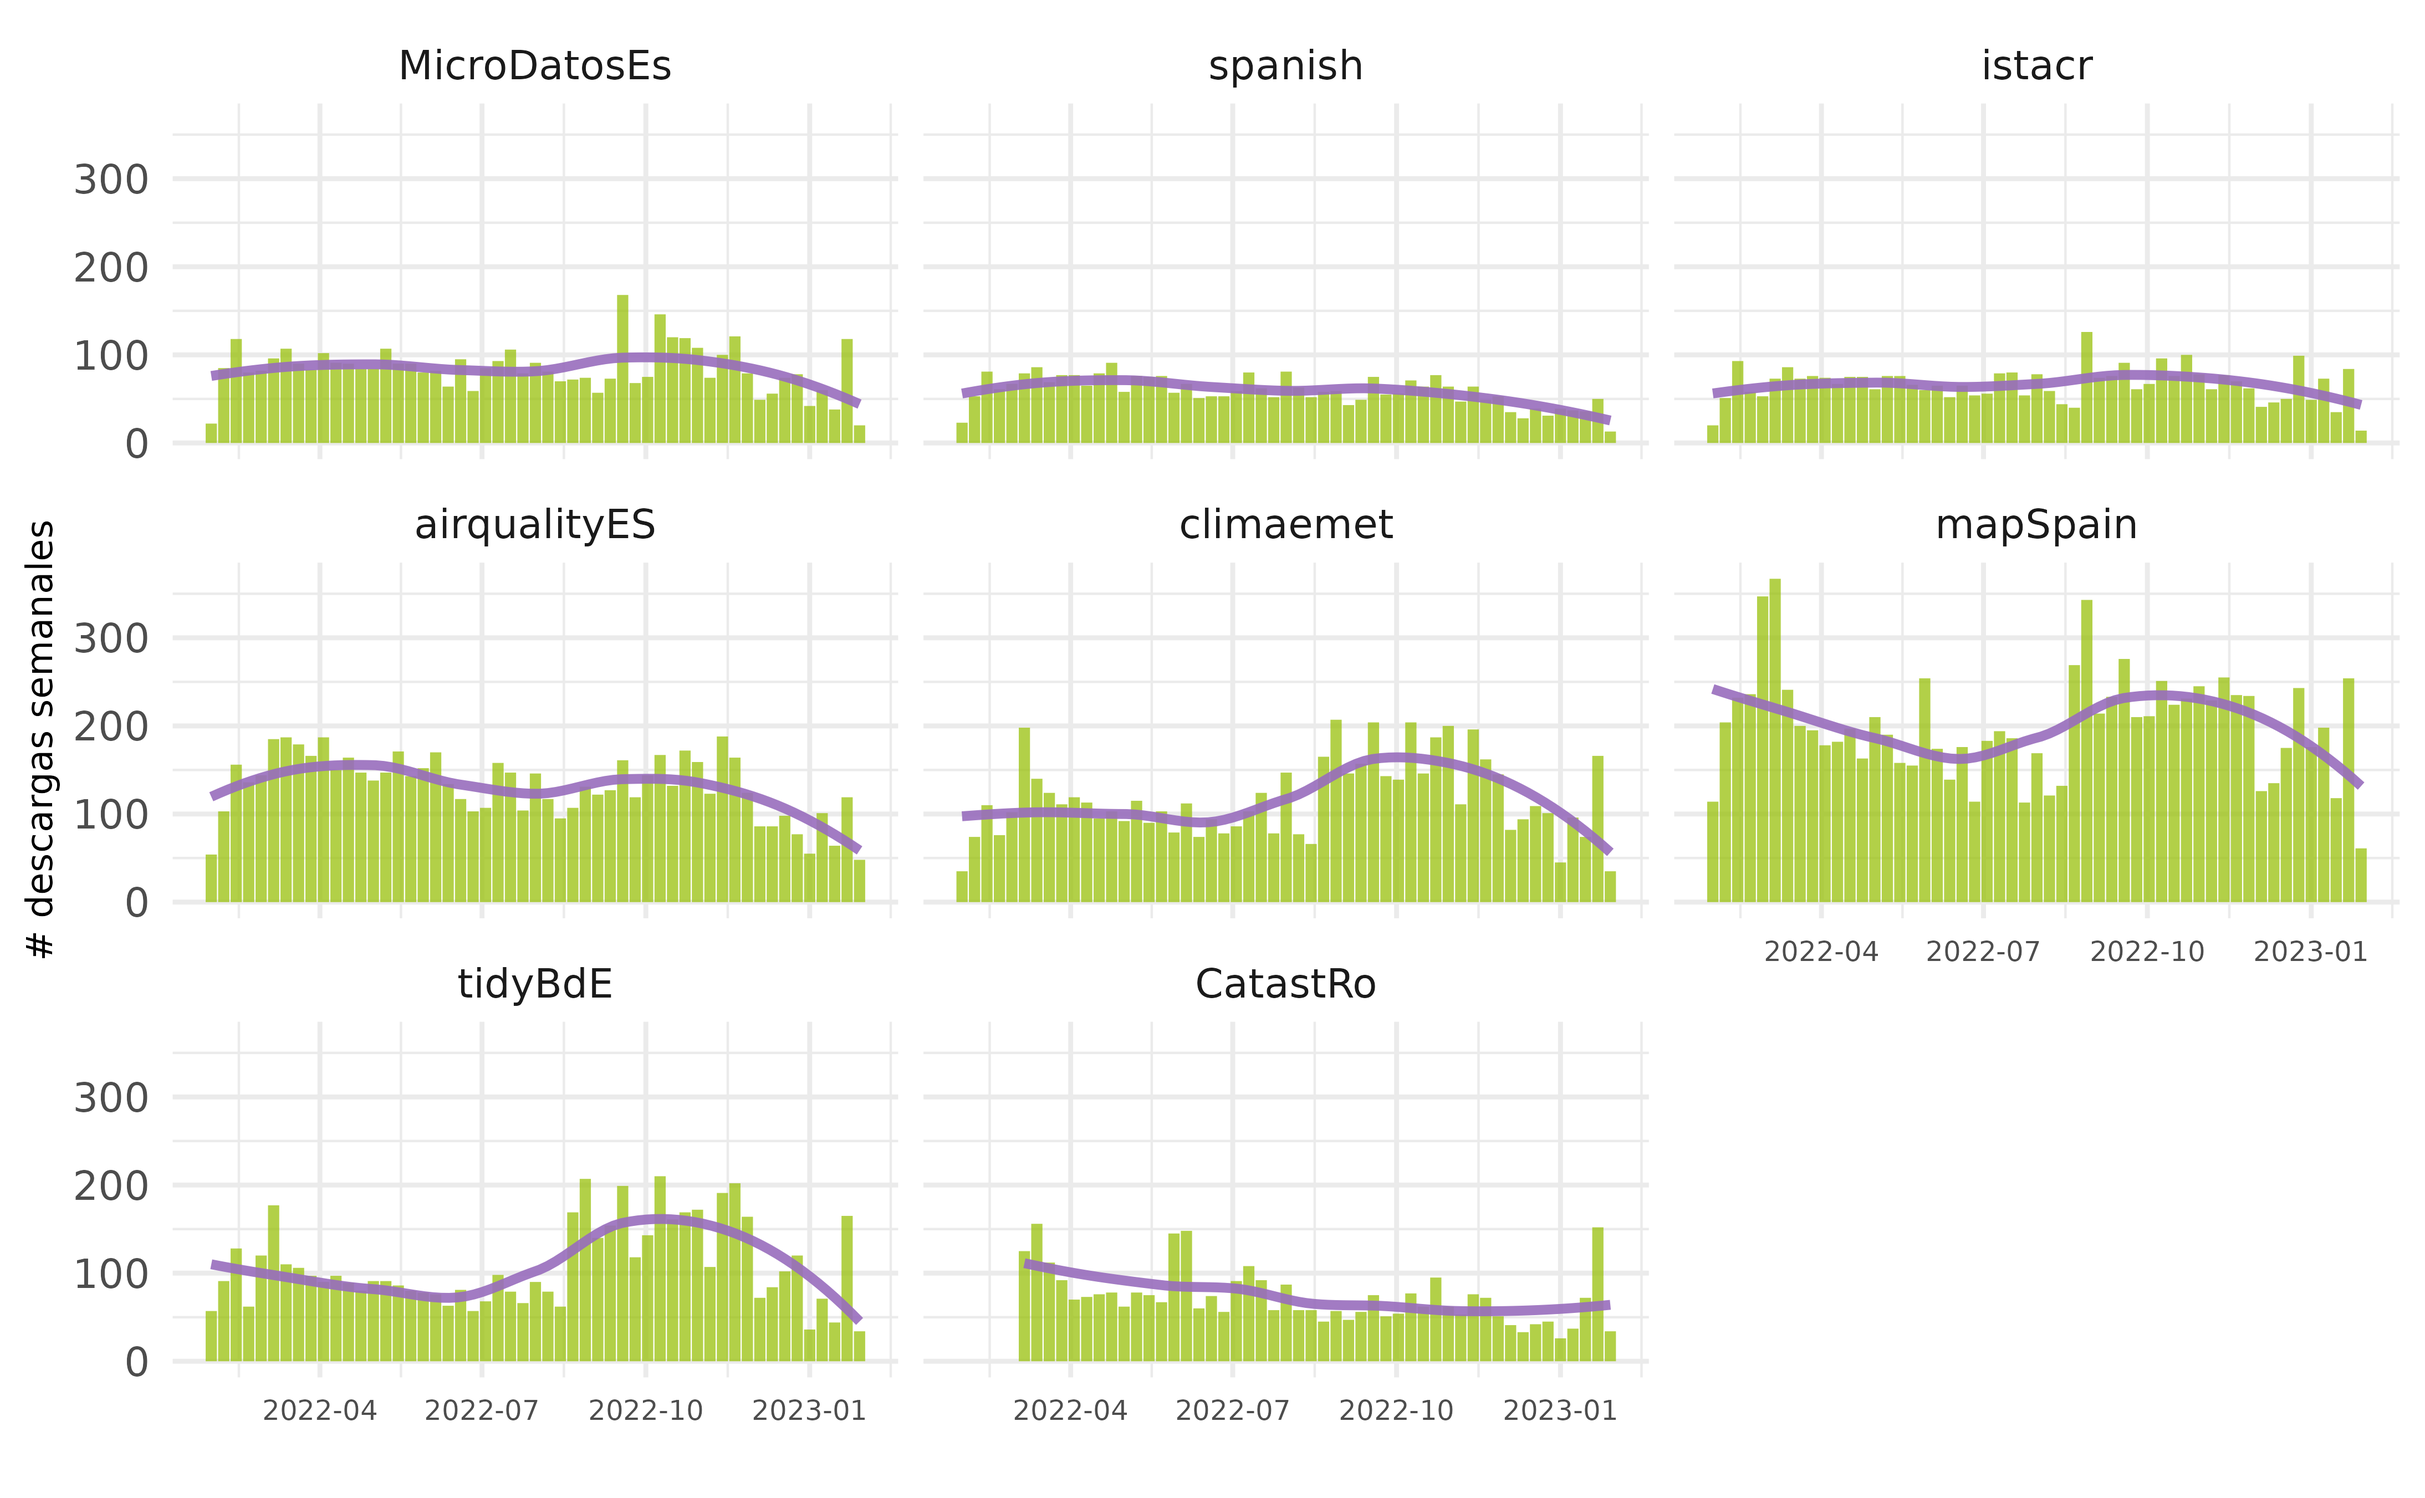
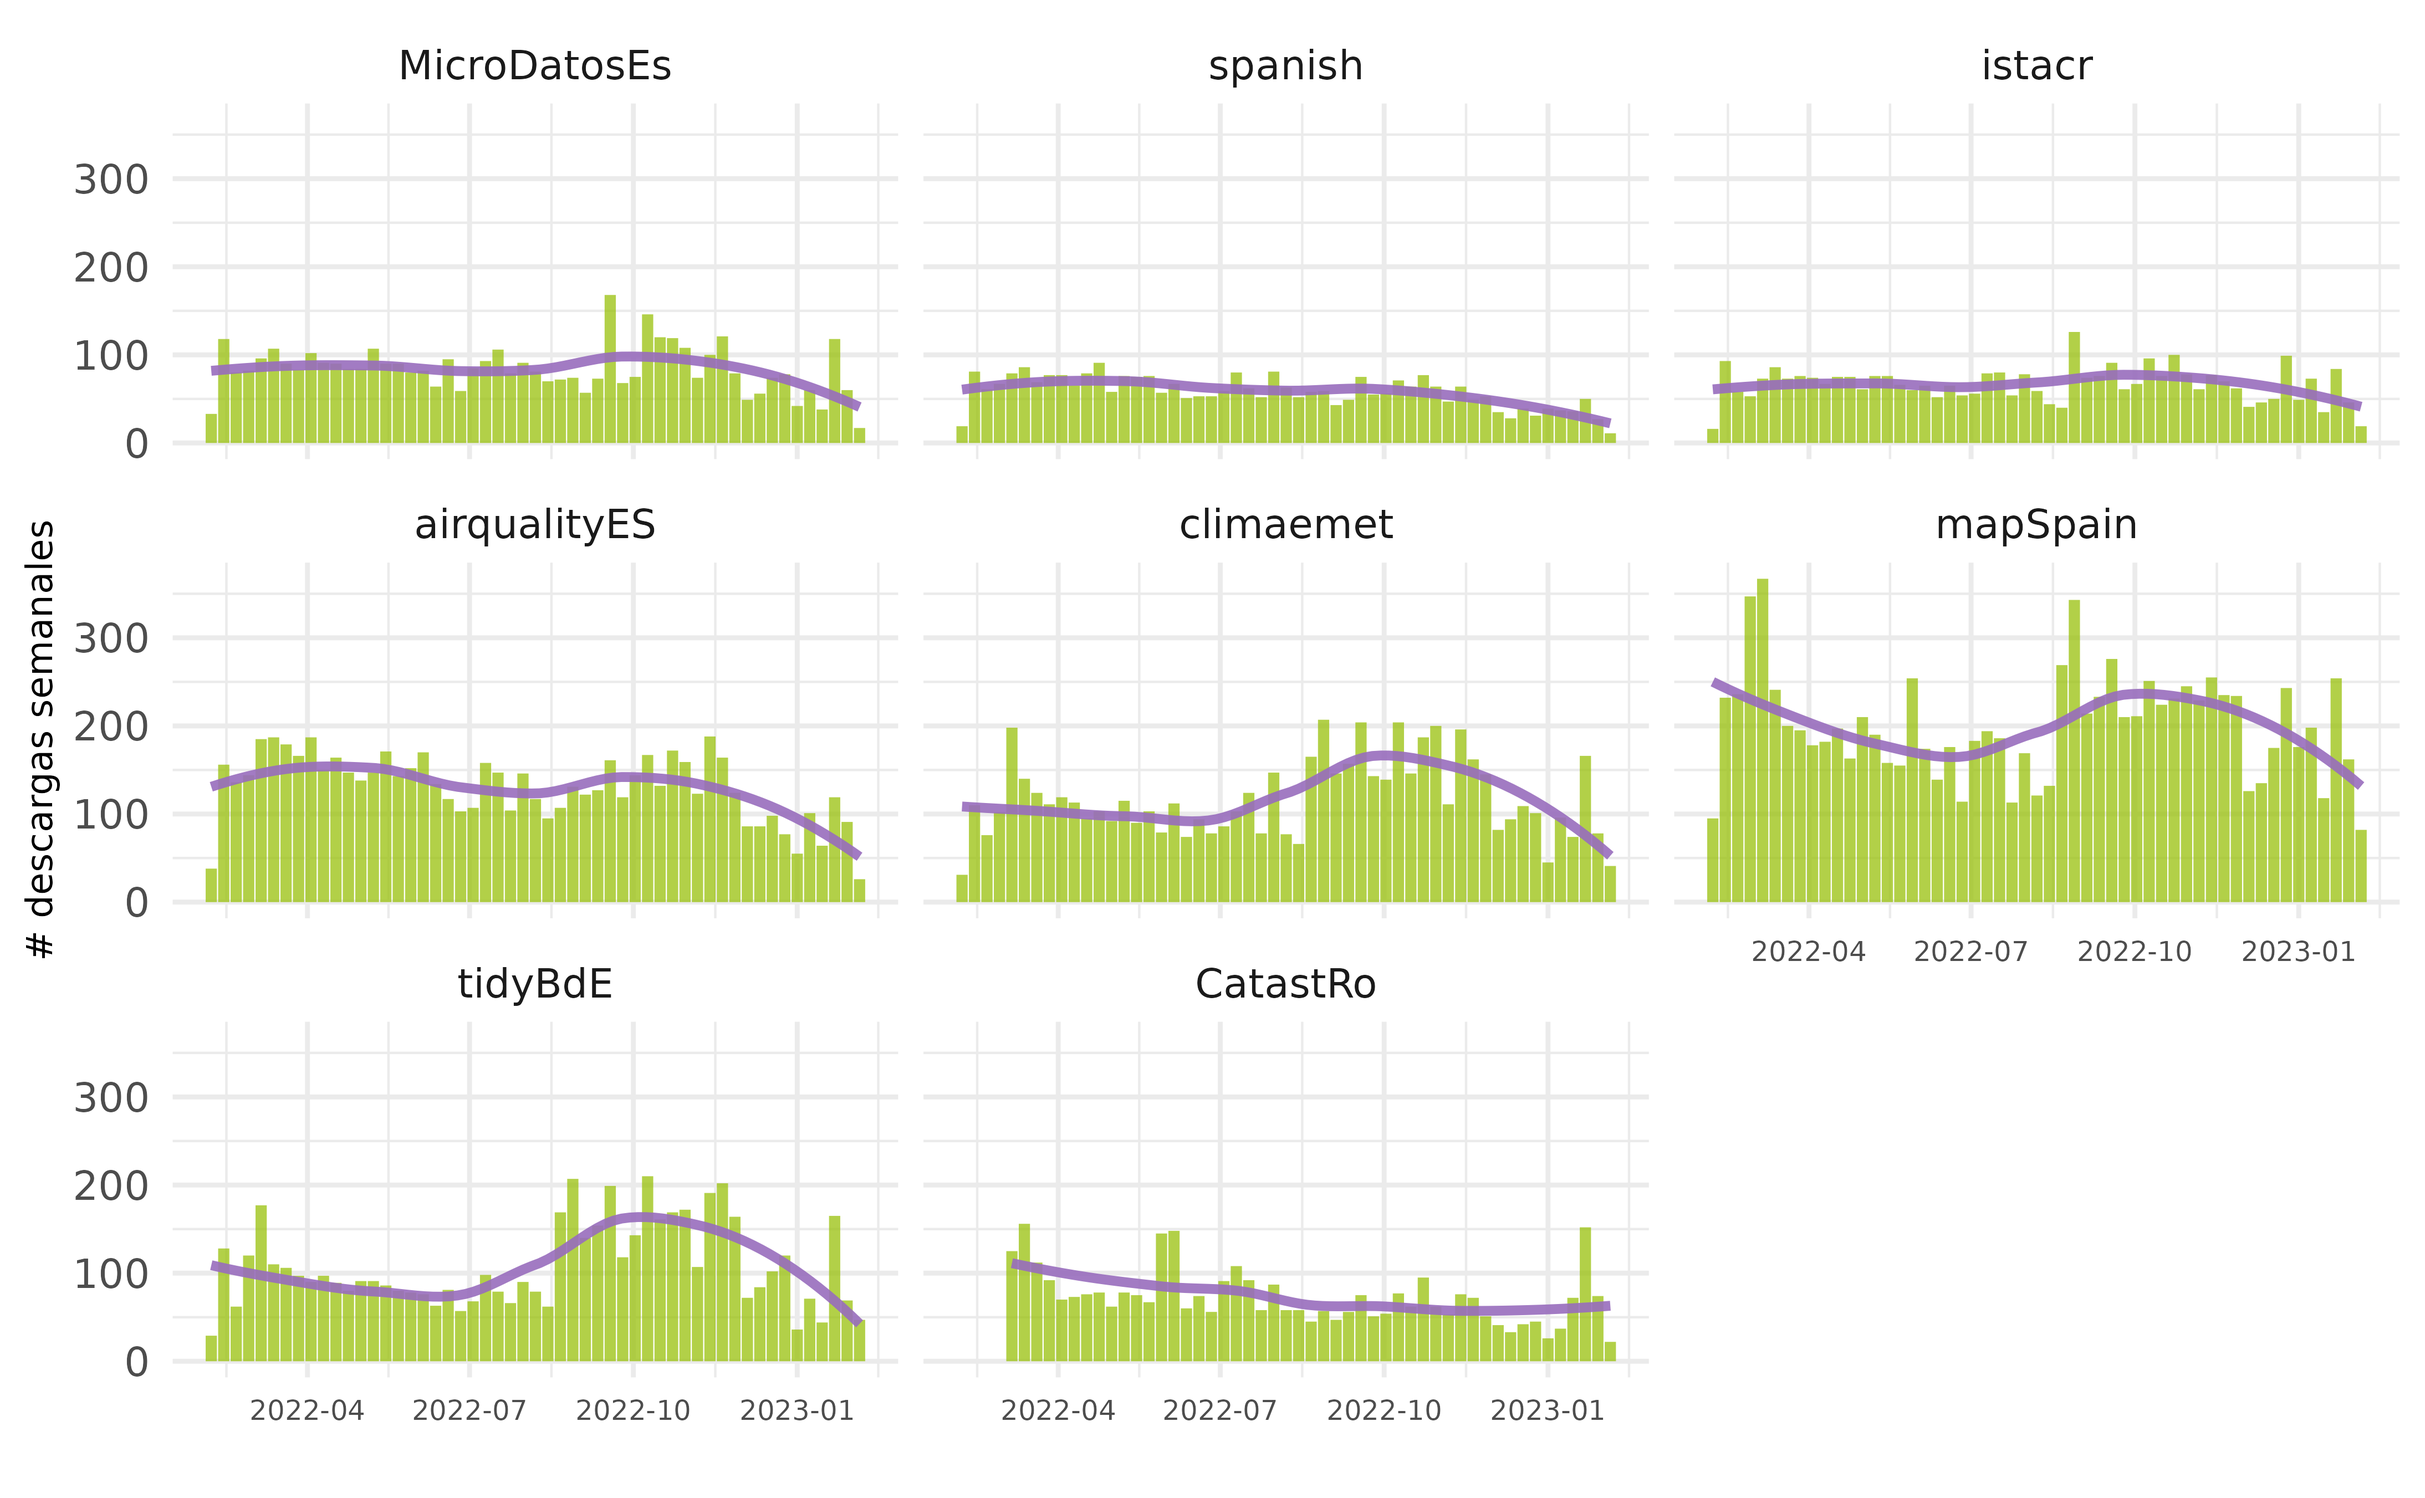
Built site for rostemplate: 0.1.1.9000@6539e0f

diff --git a/articles/descargas.html b/articles/descargas.html
@@ -101,7 +101,7 @@
 
     
     
-<p><em>Fecha de actualización: 26 Jan 2023</em></p>
+<p><em>Fecha de actualización: 02 Feb 2023</em></p>
 <p>Descargas de paquetes de rOpenSpain desde CRAN.</p>
 <div class="section level2">
 <h2 id="total-de-descargas">Total de descargas<a class="anchor" aria-label="anchor" href="#total-de-descargas"></a>
@@ -117,7 +117,7 @@
 <h2 id="datos">Datos<a class="anchor" aria-label="anchor" href="#datos"></a>
 </h2>
 <div class="reactable html-widget html-fill-item-overflow-hidden html-fill-item" id="station-table" style="width:auto;height:auto;"></div>
-<script type="application/json" data-for="station-table">{"x":{"tag":{"name":"Reactable","attribs":{"data":{"paquete":["CatastRo","tidyBdE","mapSpain","climaemet","airqualityES","istacr","spanish","MicroDatosEs"],"en CRAN":["2022-02-28","2021-04-08","2020-11-30","2020-07-07","2020-02-29","2019-04-24","2017-12-14","2013-10-21"],"media descargas diarias":[10.7,15.8,24.6,16.1,20.9,12.8,11.3,13.2],"ultimo dia":[8,5,22,9,12,5,2,5],"ultima semana":[74,64,117,82,90,44,31,51],"ultimo mes":[318,344,782,408,373,244,168,269],"ultimo año":[3514,5783,10670,6232,6981,3545,3115,4475]},"columns":[{"id":"paquete","name":"paquete","type":"character"},{"id":"en CRAN","name":"en CRAN","type":"Date"},{"id":"media descargas diarias","name":"media descargas diarias","type":"numeric"},{"id":"ultimo dia","name":"ultimo dia","type":"numeric"},{"id":"ultima semana","name":"ultima semana","type":"numeric"},{"id":"ultimo mes","name":"ultimo mes","type":"numeric"},{"id":"ultimo año","name":"ultimo año","type":"numeric"}],"filterable":true,"searchable":true,"showPageSizeOptions":true,"paginationType":"jump","striped":true,"elementId":"station-table","dataKey":"253ed623a9fca4ab7b63e713559d96b3"},"children":[]},"class":"reactR_markup"},"evals":[],"jsHooks":[]}</script>
+<script type="application/json" data-for="station-table">{"x":{"tag":{"name":"Reactable","attribs":{"data":{"paquete":["CatastRo","tidyBdE","mapSpain","climaemet","airqualityES","istacr","spanish","MicroDatosEs"],"en CRAN":["2022-02-28","2021-04-08","2020-11-30","2020-07-07","2020-02-29","2019-04-24","2017-12-14","2013-10-21"],"media descargas diarias":[10.6,15.8,24.6,16,20.8,12.7,11.3,13.2],"ultimo dia":[7,21,40,25,12,6,5,8],"ultima semana":[53,78,146,76,54,41,22,51],"ultimo mes":[356,395,800,453,392,254,160,289],"ultimo año":[3576,5746,10630,6238,6931,3541,3083,4458]},"columns":[{"id":"paquete","name":"paquete","type":"character"},{"id":"en CRAN","name":"en CRAN","type":"Date"},{"id":"media descargas diarias","name":"media descargas diarias","type":"numeric"},{"id":"ultimo dia","name":"ultimo dia","type":"numeric"},{"id":"ultima semana","name":"ultima semana","type":"numeric"},{"id":"ultimo mes","name":"ultimo mes","type":"numeric"},{"id":"ultimo año","name":"ultimo año","type":"numeric"}],"filterable":true,"searchable":true,"showPageSizeOptions":true,"paginationType":"jump","striped":true,"elementId":"station-table","dataKey":"733c0c9601fda8f68105462c2307b541"},"children":[]},"class":"reactR_markup"},"evals":[],"jsHooks":[]}</script>
 </div>
   </main><aside class="col-md-3"><nav id="toc"><h2>En esta página</h2>
     </nav></aside>
